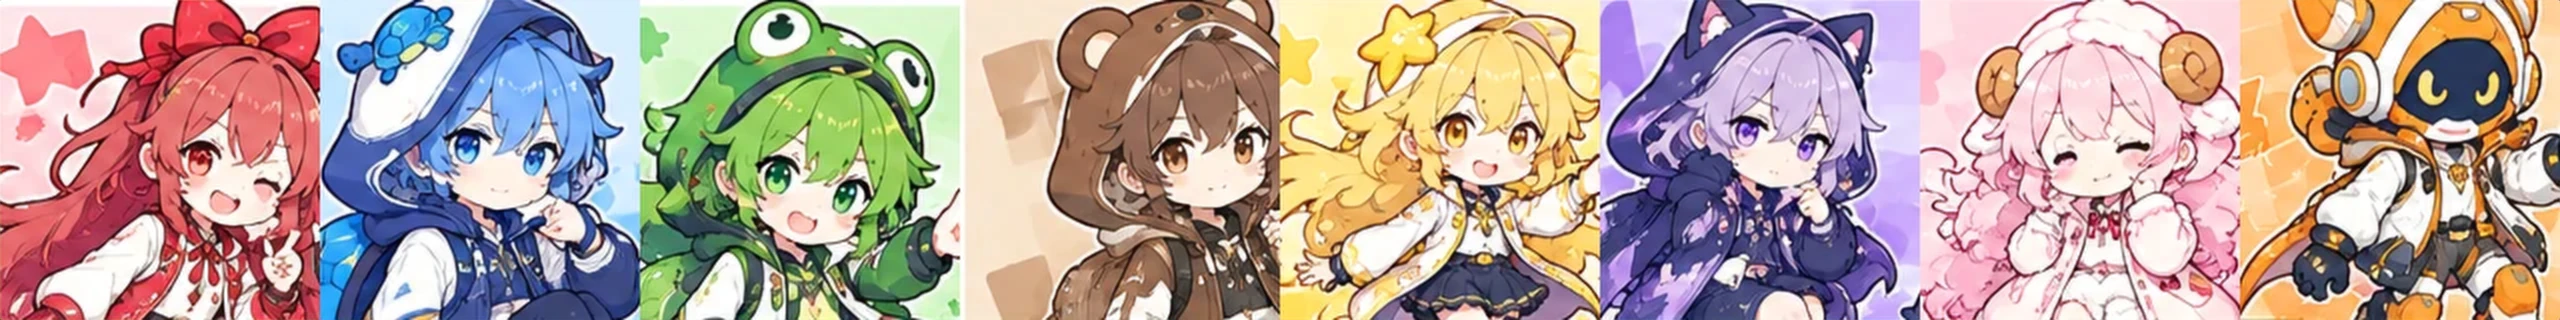
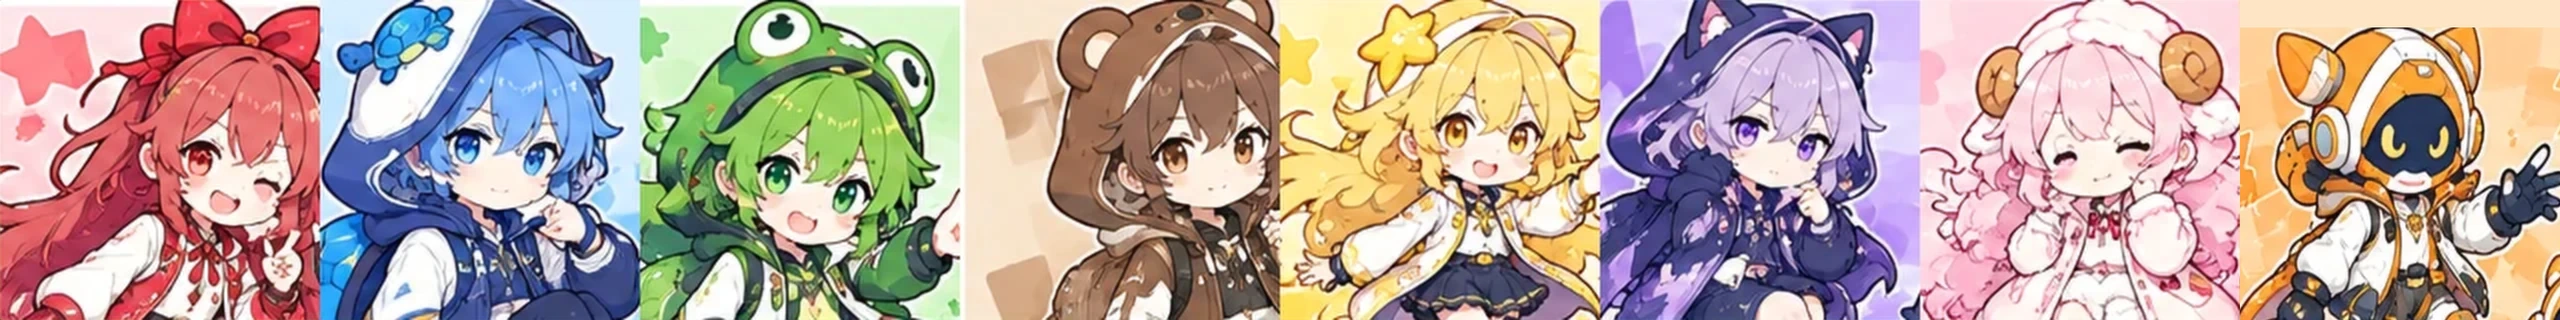
볼트 상반신·대전 초상 그림 위치 바로잡기
- 볼트만 머리 윗부분이 잘려 몸이 크게 보였음 → 카드 그림에서 머리부터 상체가 다 들어오게 다시 오려 만듦
- 끝났을 때 얼굴 오리는 위치도 맞추고, 그림 주소의 버전을 올려 캐시를 새로 받게

Claude-Session: https://claude.ai/code/session_019Xjvp4u9dAV9jMhR6BEbm5

Changed region(s): [[0.875, 0.0, 1.0, 1.0]]

diff --git a/public/index.html b/public/index.html
@@ -154,7 +154,7 @@
   .charcard .mine { position: absolute; z-index: 2; top: 6%; right: 7%; font-family: var(--head); font-size: 14px; background: #fff; color: var(--d); border-radius: 999px; padding: 2px 10px; display: none; }
   .charcard.sel .mine { display: block; }
   .charcard .cimg { position: absolute; z-index: 1; top: 5%; left: 50%; height: 90%; aspect-ratio: 600 / 708; transform: translateX(-50%); border-radius: 10px;
-    background: url(img/chars_card.webp?v=3) no-repeat; background-size: 800% 100%; background-position: calc(var(--n) * 100% / 7) 0; }   /* 카드 그림(이름·소개 포함): 한 줄 8칸 그림에서 --n번째 칸 */
+    background: url(img/chars_card.webp?v=4) no-repeat; background-size: 800% 100%; background-position: calc(var(--n) * 100% / 7) 0; }   /* 카드 그림(이름·소개 포함): 한 줄 8칸 그림에서 --n번째 칸 */
   .charcard.cardimg .tt { display: none; }
   #sc-ai { grid-template-columns: 1fr 1fr; grid-template-rows: auto 1fr 1fr; }
   #sc-vs { grid-template-columns: 1.15fr 1fr 0.9fr; grid-template-rows: 1fr 1fr auto; }
@@ -1021,7 +1021,7 @@
 #splash .sp-logo span:nth-child(3){color:#6ee28d;animation-delay:.24s}#splash .sp-logo span:nth-child(4){color:#7fb6ff;animation-delay:.36s}
 @keyframes spbounce{0%,100%{transform:translateY(0)}40%{transform:translateY(-14px)}}
 #splash .sp-mas{display:flex;gap:6px}
-#splash .sp-mas i{width:clamp(34px,6vw,58px);aspect-ratio:1;background:url(img/chars_icon.webp?v=3) calc(var(--n)*14.2857%) 0/800% 100% no-repeat;animation:spjump 1.4s ease-in-out infinite;animation-delay:calc(var(--n)*.1s);filter:drop-shadow(0 4px 0 #0005)}
+#splash .sp-mas i{width:clamp(34px,6vw,58px);aspect-ratio:1;background:url(img/chars_icon.webp?v=4) calc(var(--n)*14.2857%) 0/800% 100% no-repeat;animation:spjump 1.4s ease-in-out infinite;animation-delay:calc(var(--n)*.1s);filter:drop-shadow(0 4px 0 #0005)}
 @keyframes spjump{0%,60%,100%{transform:translateY(0) scale(1,1)}25%{transform:translateY(-12px) scale(.94,1.06)}45%{transform:translateY(0) scale(1.08,.92)}}
 #splash .sp-barwrap{display:flex;align-items:center;gap:12px;width:min(78vw,460px)}
 #splash .sp-bar{flex:1;height:18px;border-radius:99px;background:#0006;border:3px solid #fff;box-shadow:0 4px 0 #0004;overflow:hidden}
@@ -1053,7 +1053,7 @@ body.app label.setchk:has(#vib),body.app #lanInfo{display:none !important}
   .mmcard { width: min(640px, 100%); }
   .cmlist { display: grid; grid-template-columns: repeat(4, 1fr); gap: 10px; margin: 12px 0; }
   .cmbtn { display: flex; flex-direction: column; align-items: center; gap: 4px; padding: 10px 4px 8px; border: 3px solid #cfd1dc; border-radius: 12px; background: #fff; color: #2a2850; font: inherit; font-family: var(--head); font-size: 15px; cursor: pointer; transition: transform .15s, border-color .15s; }
-  .cmbtn i { width: 64px; height: 64px; background: url(img/chars_icon.webp?v=3) calc(var(--n) * 14.2857%) 0 / 800% 100% no-repeat; }
+  .cmbtn i { width: 64px; height: 64px; background: url(img/chars_icon.webp?v=4) calc(var(--n) * 14.2857%) 0 / 800% 100% no-repeat; }
   .cmbtn:hover, .cmbtn:focus { outline: 0; border-color: #1b1654; transform: scale(1.035); }
   .cmbtn.on { border-color: #1b1654; background: #ece8ff; }
   .cmbtn.on::after { content: "지난번 캐릭터"; font-size: 11px; color: #4a3fa0; }

diff --git a/public/js/chars.js b/public/js/chars.js
@@ -46,7 +46,7 @@ const CHAR_LOAD = {};
 function loadCharImg(k) {
   if (!CHAR_IMG || CHAR_LOAD[k]) return; CHAR_LOAD[k] = true;
   CHAR_IMG[k].onload = () => onArtImage();
-  CHAR_IMG[k].src = `img/chars_${k}.webp?v=3`;   // 그림을 바꾸면 v를 올려 캐시를 새로 받게
+  CHAR_IMG[k].src = `img/chars_${k}.webp?v=4`;   // 그림을 바꾸면 v를 올려 캐시를 새로 받게
 }
 if (CHAR_IMG) ['icon', 'bust', 'face'].forEach(loadCharImg);
 const charImgOk = k => { if (!CHAR_IMG) return false; loadCharImg(k); return CHAR_IMG[k].complete && CHAR_IMG[k].naturalWidth; };
@@ -67,7 +67,7 @@ function drawCharFace(c, id, x, y, size, expr = 0) {
   c.lineWidth = Math.max(1, size * 0.03); c.strokeStyle = ch.d; c.stroke(); c.restore();
 }
 // 끝났을 때 대사 옆 큰 얼굴: 표정 그림(chars_face)은 원본이 아주 작아 크게 보면 뭉개지므로, 선명한 상반신 그림(chars_bust)에서 얼굴 부분만 오려 씀. 칸 안 얼굴 중심(x, y)과 오려 낼 크기 — CHARS 순서
-const HEAD_CROP = [[222, 165, 165], [194, 158, 170], [196, 170, 170], [232, 172, 170], [212, 148, 170], [206, 152, 170], [192, 152, 170], [244, 108, 200]];
+const HEAD_CROP = [[222, 165, 165], [194, 158, 170], [196, 170, 170], [232, 172, 170], [212, 148, 170], [206, 152, 170], [192, 152, 170], [170, 138, 150]];
 function drawCharHead(c, id, x, y, size, won) {
   if (!charImgOk('bust')) { drawCharFace(c, id, x, y, size, won ? FACE.joy : FACE.worry); return; }
   const ch = charOf(id), i = Math.max(0, CHARS.findIndex(q => q.id === ch.id)), [fx, fy, fs] = HEAD_CROP[i] || [160, 150, 200], h = size / 2, r = size * 0.2;
